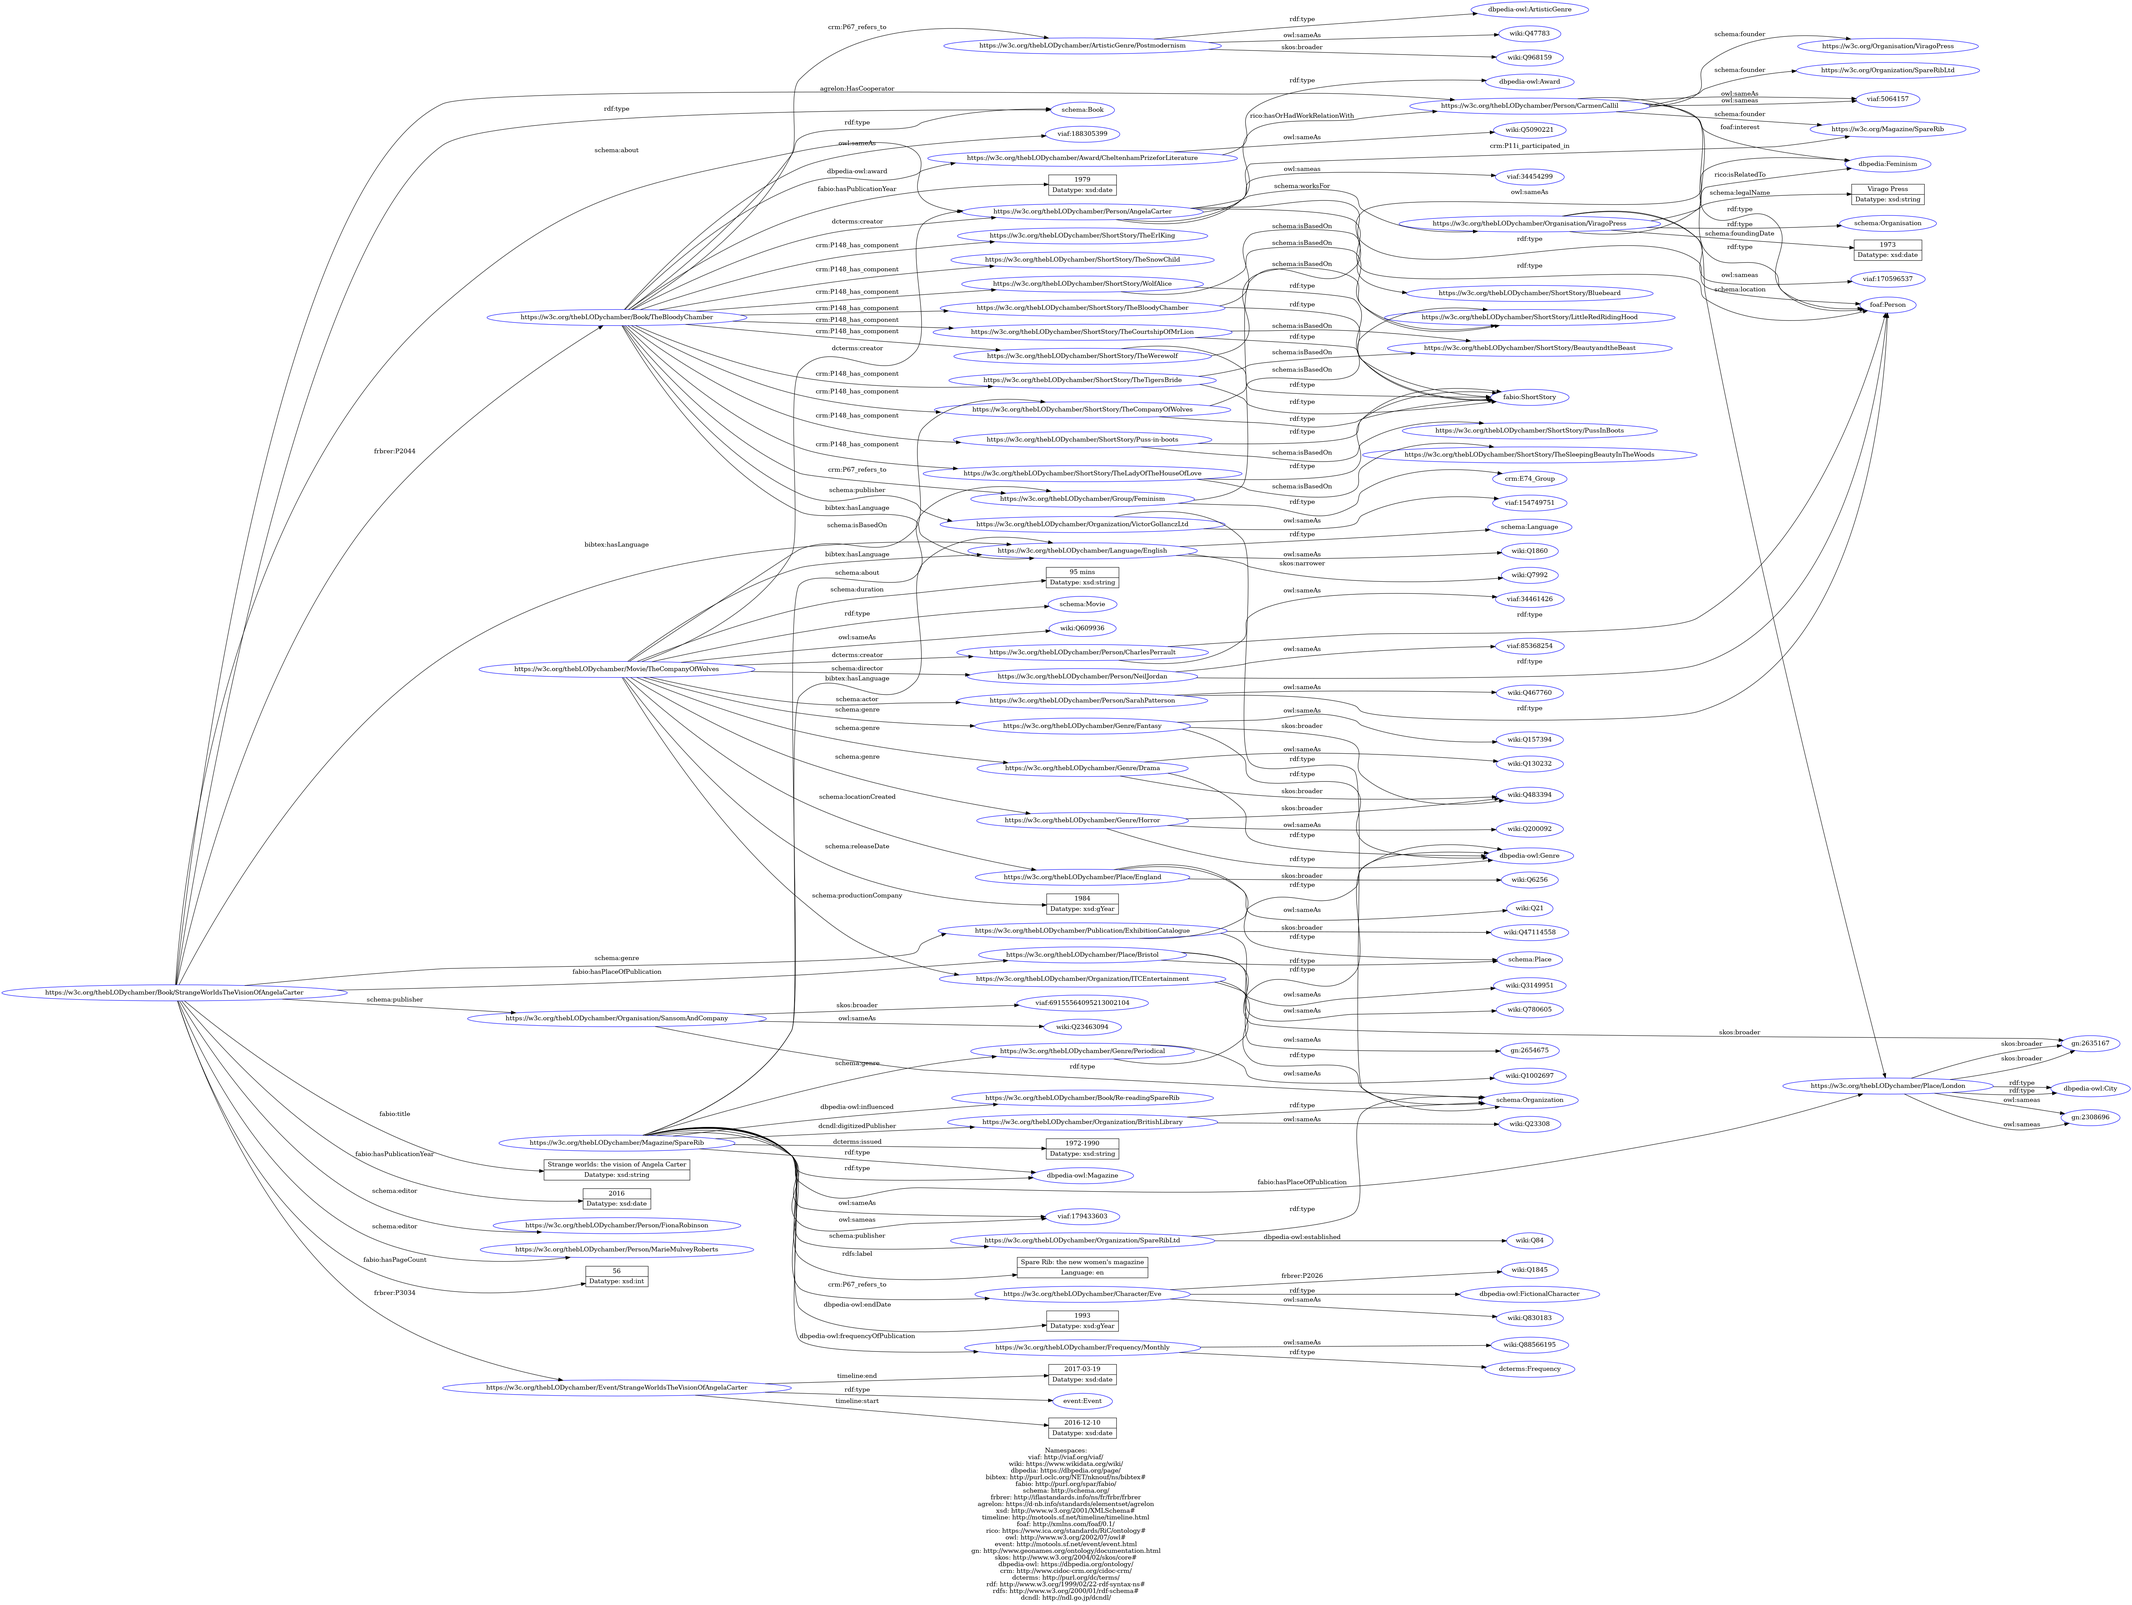
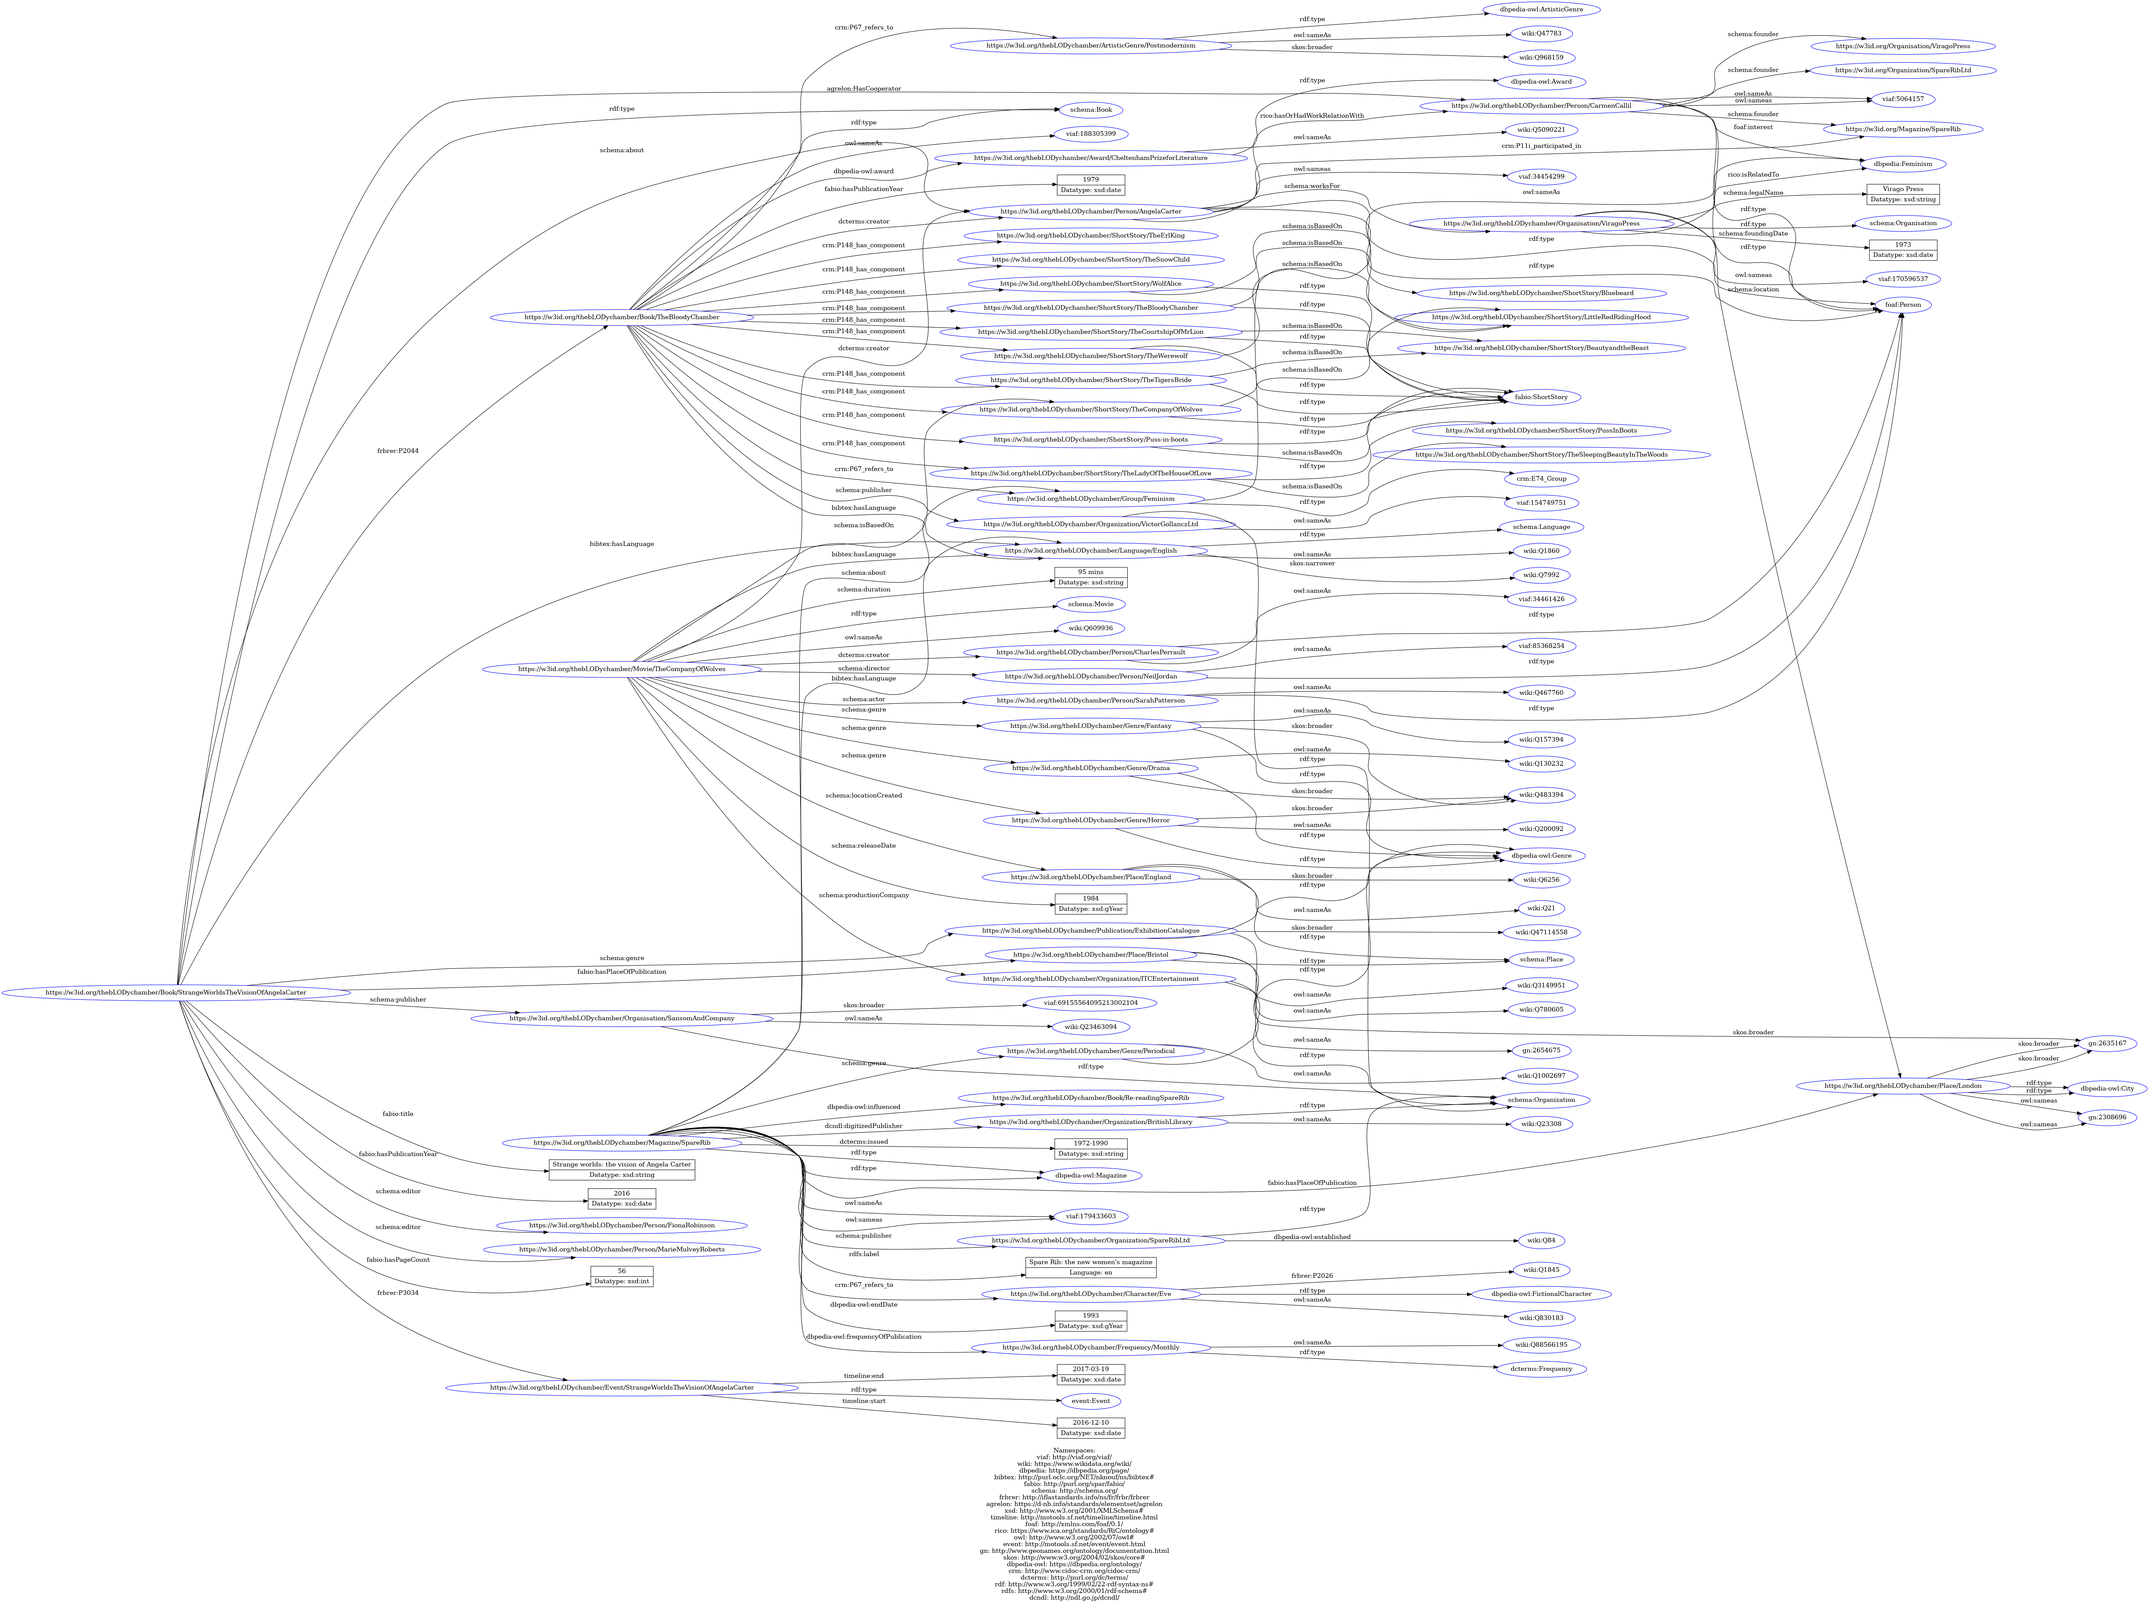
modify identifier links on rdf page

diff --git a/rdf.html b/rdf.html
@@ -85,50 +85,50 @@
                 <div class="col-xl-12 text-left">
                     <ul>
                         <p>ITEMS</p>
-                        <li>@base https://w3c.org/thebLODychamber/</li>
-                        <li>https://w3c.org/thebLODychamber/Book/TheBloodyChamber</li>
-                        <li>https://w3c.org/thebLODychamber/Book/StrangeWorldsTheVisionOfAngelaCarter</li>
-                        <li>https://w3c.org/thebLODychamber/Book/Re-readingSpareRib</li>
-                        <li>https://w3c.org/thebLODychamber/Movie/TheCompanyOfWolves</li>
-                        <li>https://w3c.org/thebLODychamber/Magazine/SpareRib</li>
+                        <li>@base https://w3id.org/thebLODychamber/</li>
+                        <li>https://w3id.org/thebLODychamber/Book/TheBloodyChamber</li>
+                        <li>https://w3id.org/thebLODychamber/Book/StrangeWorldsTheVisionOfAngelaCarter</li>
+                        <li>https://w3id.org/thebLODychamber/Book/Re-readingSpareRib</li>
+                        <li>https://w3id.org/thebLODychamber/Movie/TheCompanyOfWolves</li>
+                        <li>https://w3id.org/thebLODychamber/Magazine/SpareRib</li>
                         <br>
                         <p>ENTITIES</p>
-                        <li>https://w3c.org/thebLODychamber/Person/AngelaCarter</li>
-                        <li>https://w3c.org/thebLODychamber/Person/FionaRobinson</li>
-                        <li>https://w3c.org/thebLODychamber/Person/MarieMulveyRoberts</li>
-                        <li>https://w3c.org/thebLODychamber/Person/CarmenCallil</li>
-                        <li>https://w3c.org/thebLODychamber/Person/CharlesPerrault</li>
-                        <li>https://w3c.org/thebLODychamber/Person/NeilJordan</li>
-                        <li>https://w3c.org/thebLODychamber/Person/SarahPatterson</li>
-                        <li>https://w3c.org/thebLODychamber/Organization/VictorGollanczLtd</li>
-                        <li>https://w3c.org/thebLODychamber/Organisation/SansomAndCompany</li>
-                        <li>https://w3c.org/thebLODychamber/Organisation/ViragoPress</li>
-                        <li>https://w3c.org/thebLODychamber/Organization/ITCEntertainment</li>
-                        <li>https://w3c.org/thebLODychamber/Organization/BritishLibrary</li>
-                        <li>https://w3c.org/thebLODychamber/Organization/SpareRibLtd</li>
-                        <li>https://w3c.org/thebLODychamber/Language/English</li>
-                        <li>https://w3c.org/thebLODychamber/ArtisticGenre/Postmodernism</li>
-                        <li>https://w3c.org/thebLODychamber/Genre/Drama</li>
-                        <li>https://w3c.org/thebLODychamber/Genre/Fantasy</li>
-                        <li>https://w3c.org/thebLODychamber/Genre/Horror</li>
-                        <li>https://w3c.org/thebLODychamber/Genre/Periodical</li>
-                        <li>https://w3c.org/thebLODychamber/Group/Feminism</li>
-                        <li>https://w3c.org/thebLODychamber/Award/CheltenhamPrizeforLiterature</li>
-                        <li>https://w3c.org/thebLODychamber/ShortStory/TheBloodyChamber</li>
-                        <li>https://w3c.org/thebLODychamber/ShortStory/TheCourtshipOfMrLion</li>
-                        <li>https://w3c.org/thebLODychamber/ShortStory/TheTigersBride</li>
-                        <li>https://w3c.org/thebLODychamber/ShortStory/Puss-in-boots</li>
-                        <li>https://w3c.org/thebLODychamber/ShortStory/TheLadyOfTheHouseOfLove</li>
-                        <li>https://w3c.org/thebLODychamber/ShortStory/TheWerewolf</li>
-                        <li>https://w3c.org/thebLODychamber/ShortStory/TheCompanyOfWolves</li>
-                        <li>https://w3c.org/thebLODychamber/ShortStory/WolfAlice</li>
-                        <li>https://w3c.org/thebLODychamber/Place/Bristol</li>
-                        <li>https://w3c.org/thebLODychamber/Place/London</li>
-                        <li>https://w3c.org/thebLODychamber/Place/England</li>
-                        <li>https://w3c.org/thebLODychamber/Publication/ExhibitionCatalogue</li>
-                        <li>https://w3c.org/thebLODychamber/Event/StrangeWorldsTheVisionOfAngelaCarter</li>
-                        <li>https://w3c.org/thebLODychamber/Frequency/Monthly</li>
-                        <li>https://w3c.org/thebLODychamber/Character/Eve</li>
+                        <li>https://w3id.org/thebLODychamber/Person/AngelaCarter</li>
+                        <li>https://w3id.org/thebLODychamber/Person/FionaRobinson</li>
+                        <li>https://w3id.org/thebLODychamber/Person/MarieMulveyRoberts</li>
+                        <li>https://w3id.org/thebLODychamber/Person/CarmenCallil</li>
+                        <li>https://w3id.org/thebLODychamber/Person/CharlesPerrault</li>
+                        <li>https://w3id.org/thebLODychamber/Person/NeilJordan</li>
+                        <li>https://w3id.org/thebLODychamber/Person/SarahPatterson</li>
+                        <li>https://w3id.org/thebLODychamber/Organization/VictorGollanczLtd</li>
+                        <li>https://w3id.org/thebLODychamber/Organisation/SansomAndCompany</li>
+                        <li>https://w3id.org/thebLODychamber/Organisation/ViragoPress</li>
+                        <li>https://w3id.org/thebLODychamber/Organization/ITCEntertainment</li>
+                        <li>https://w3id.org/thebLODychamber/Organization/BritishLibrary</li>
+                        <li>https://w3id.org/thebLODychamber/Organization/SpareRibLtd</li>
+                        <li>https://w3id.org/thebLODychamber/Language/English</li>
+                        <li>https://w3id.org/thebLODychamber/ArtisticGenre/Postmodernism</li>
+                        <li>https://w3id.org/thebLODychamber/Genre/Drama</li>
+                        <li>https://w3id.org/thebLODychamber/Genre/Fantasy</li>
+                        <li>https://w3id.org/thebLODychamber/Genre/Horror</li>
+                        <li>https://w3id.org/thebLODychamber/Genre/Periodical</li>
+                        <li>https://w3id.org/thebLODychamber/Group/Feminism</li>
+                        <li>https://w3id.org/thebLODychamber/Award/CheltenhamPrizeforLiterature</li>
+                        <li>https://w3id.org/thebLODychamber/ShortStory/TheBloodyChamber</li>
+                        <li>https://w3id.org/thebLODychamber/ShortStory/TheCourtshipOfMrLion</li>
+                        <li>https://w3id.org/thebLODychamber/ShortStory/TheTigersBride</li>
+                        <li>https://w3id.org/thebLODychamber/ShortStory/Puss-in-boots</li>
+                        <li>https://w3id.org/thebLODychamber/ShortStory/TheLadyOfTheHouseOfLove</li>
+                        <li>https://w3id.org/thebLODychamber/ShortStory/TheWerewolf</li>
+                        <li>https://w3id.org/thebLODychamber/ShortStory/TheCompanyOfWolves</li>
+                        <li>https://w3id.org/thebLODychamber/ShortStory/WolfAlice</li>
+                        <li>https://w3id.org/thebLODychamber/Place/Bristol</li>
+                        <li>https://w3id.org/thebLODychamber/Place/London</li>
+                        <li>https://w3id.org/thebLODychamber/Place/England</li>
+                        <li>https://w3id.org/thebLODychamber/Publication/ExhibitionCatalogue</li>
+                        <li>https://w3id.org/thebLODychamber/Event/StrangeWorldsTheVisionOfAngelaCarter</li>
+                        <li>https://w3id.org/thebLODychamber/Frequency/Monthly</li>
+                        <li>https://w3id.org/thebLODychamber/Character/Eve</li>
                     </ul>
                 </div>
             </div>

diff --git a/index.html b/index.html
@@ -69,7 +69,7 @@
             <div class="row">
                 <div class="col-lg-12 mx-auto">
                     <h1 class="text-white mb-4"><b>The Domain</b></h1>
-                    <p class="text-white-50"> 
+                    <p class="text-white-50">
                         "The Bloody Chamber" by Angela Carter is a literary masterpiece of feminist literature. This
                         collection of fairy tales became a real phenomenon in 1979 when it was published, paving the way
                         for a new generation of feminist writers who continue to use this genre as a means of critiquing
@@ -78,22 +78,13 @@
                         complex and empowered individuals, capable of taking control of their own destinies.
                     </p>
                     <p class="text-white-50">
-                        In addition to folklore references, the stories also show typical traits of the gothic style and of magical realism, which is
-                        characterized by the inclusion of fantastical or surreal elements within a realistic setting. This magnificent mixture of genres was created taking inspiration from generations of
+                        In addition to folklore references, the stories also show typical traits of the gothic style and
+                        of magical realism, which is
+                        characterized by the inclusion of fantastical or surreal elements within a realistic setting.
+                        This magnificent mixture of genres was created taking inspiration from generations of
                         writers, cultures, ideas and concepts. Therefore, “The Bloody Chamber” was interesting for our
                         research because it includes many dimensions, people and characters from different historical
                         periods; this allowed us to include different types of items and entities.
-                    </p>
-                    <p class="text-white-50">
-                        Our Linked Open Data project aimed to comprehensively analyze the phenomenon of “The Bloody
-                        Chamber”, its impact on the art and Angela Carter's working method and style. We
-<<<<<<< HEAD
-                        collected this knowledge from different databases with the intention of creating accessible
-                        information models using open standards and rules of Semantic Web.
-=======
-                        collected this knowledge from different databases with the intention of creating accessible information models using
-                        open standards and rules of Semantic Web.
->>>>>>> a26c1ae94c348cdcafab52ca8647bc05b81e61c8
                     </p>
                 </div>
             </div>
@@ -109,20 +100,25 @@
                 <div class="col-xl-12 text-left">
                     <p> Our Linked Open Data project aimed to comprehensively analyze the phenomenon of “The Bloody
                         Chamber”, its impact on the art and Angela Carter's working method and style. We
-                        collected this knowledge from different databases and worked with the aim of creating accessible information models using
+                        collected this knowledge from different databases and worked with the aim of creating accessible
+                        information models using
                         open standards, fonts, and rules of Semantic Web.
-                        </p><p>
+                    </p>
+                    <p>
                         We selected 10 items, trying to provide a diverse range of perspectives. Therefore, we included
-                        not only books, bibliographic records and writers which she was inspired by, but also film and an
+                        not only books, bibliographic records and writers which she was inspired by, but also film and
+                        an
                         audiobook based on “The Bloody Chamber” and important places and feminist organizations in
                         which she was an active member.
-                        </p><p>
+                    </p>
+                    <p>
                     <ul style="text-align: justify">
                         <li> <strong>“The Bloody Chamber”</strong> is a <strong>book</strong> first published in 1979
                             and contains short stories
                             written by
                             Angela Carter.</li>
-                        <li> <strong>The manuscript of “The Bloody Chamber”</strong> contains notes and successive drafts,
+                        <li> <strong>The manuscript of “The Bloody Chamber”</strong> contains notes and successive
+                            drafts,
                             notepads, loose
                             sheets and typescripts.</li>
                         <li> <strong>“Translation of the fairy tales of Charles Perrault”</strong> is Carter's
@@ -159,7 +155,9 @@
                             journalism and literature that was published starting in the 1960s. The material was taken
                             from
                             publications such as student magazines, the London Review of Books, New Statesman, Nova, and
-                            Vogue. One particular article, entitled "Notes from the frontline", was espcially interesting for our research, since it contains the author's thoughts and inspirations while writing "The Bloody Chamber".</li>
+                            Vogue. One particular article, entitled "Notes from the frontline", was espcially
+                            interesting for our research, since it contains the author's thoughts and inspirations while
+                            writing "The Bloody Chamber".</li>
                         <li> <strong>“Spare Rib”</strong> was a UK feminist <strong>magazine</strong> in the 1970s,
                             known for its bold approach and
                             coverage
